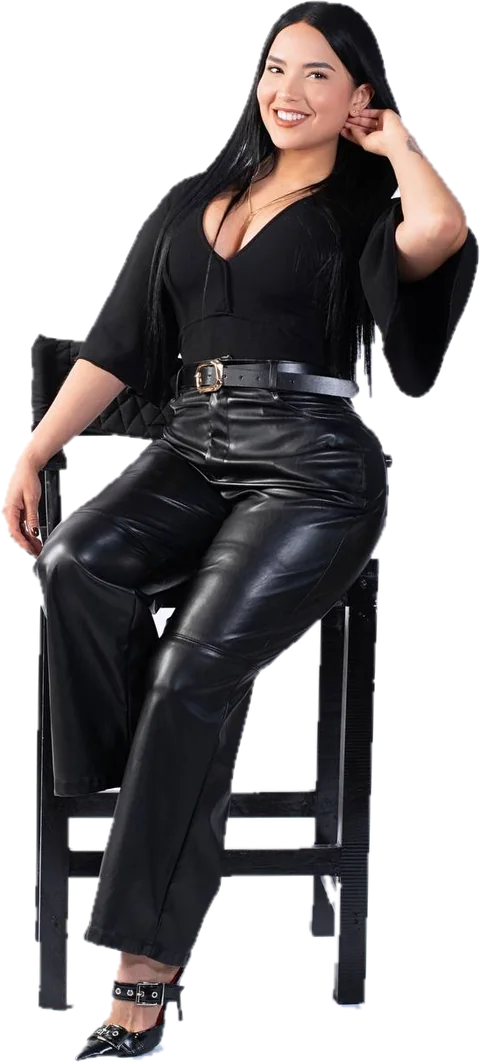
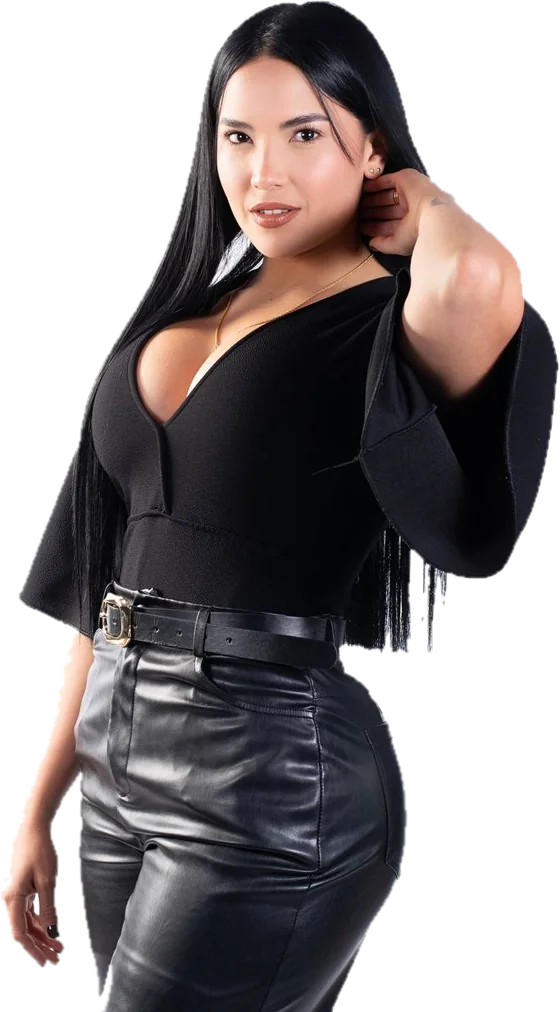
Pie: nueva foto sin fondo, título en una línea y menos espacio arriba

diff --git a/assets/styles.css b/assets/styles.css
@@ -481,14 +481,15 @@ ul, ol { list-style: none; margin: 0; padding: 0; }
     radial-gradient(ellipse at 80% 20%, rgba(105, 11, 35, .7), transparent 60%),
     var(--vino);
   color: var(--crema);
-  padding: clamp(64px, 8vw, 110px) 0 0;
+  padding: clamp(28px, 3vw, 40px) 0 0;
   overflow: hidden;
 }
 .contact__grid {
   display: grid;
   grid-template-columns: minmax(280px, 1fr) 1.15fr 1px .95fr;
-  grid-template-areas: "photo info line quote";
-  gap: clamp(28px, 4vw, 60px);
+  grid-template-areas: "photo title title title" "photo info line quote";
+  grid-template-rows: auto 1fr;
+  gap: 0 clamp(28px, 4vw, 60px);
   align-items: center;
 }
 .contact__grid::before { content: ""; grid-area: line; align-self: center; width: 1px; height: 70%; background: rgba(202, 161, 131, .4); }
@@ -530,15 +531,18 @@ ul, ol { list-style: none; margin: 0; padding: 0; }
 }
 .contact__info { grid-area: info; padding-bottom: clamp(40px, 5vw, 70px); }
 .contact__title {
+  grid-area: title;
+  align-self: end;
   font-family: var(--body);
-  font-size: clamp(16px, 1.6vw, 21px);
+  font-size: clamp(20px, 2.15vw, 30px);
   font-weight: 300;
-  letter-spacing: .2em;
+  letter-spacing: .22em;
   text-transform: uppercase;
-  line-height: 1.5;
+  line-height: 1.3;
   color: var(--crema);
-  margin-bottom: 30px;
+  margin: clamp(24px, 3vw, 44px) 0 clamp(26px, 3vw, 40px);
 }
+@media (min-width: 1100px) { .contact__title { white-space: nowrap; } }
 .contact__list { display: grid; gap: 14px; }
 .contact__list a { display: inline-flex; align-items: center; gap: 16px; color: var(--crema); text-decoration: none; font-size: 15px; letter-spacing: .03em; transition: color .2s; }
 .contact__list a:hover { color: var(--caramelo); }
@@ -641,12 +645,12 @@ ul, ol { list-style: none; margin: 0; padding: 0; }
 
 /* Contacto en tablet y celular */
 @media (max-width: 960px) {
-  .contact__grid { grid-template-columns: 1fr 1fr; grid-template-areas: "info quote" "photo photo"; }
+  .contact__grid { grid-template-columns: 1fr 1fr; grid-template-areas: "title title" "info quote" "photo photo"; grid-template-rows: auto; }
   .contact__grid::before { display: none; }
   .contact__photo { max-width: 360px; width: 100%; margin: 20px auto 0; height: 420px; }
 }
 @media (max-width: 640px) {
-  .contact__grid { grid-template-columns: 1fr; grid-template-areas: "info" "quote" "photo"; }
+  .contact__grid { grid-template-columns: 1fr; grid-template-areas: "title" "info" "quote" "photo"; }
   .contact__info, .contact__quote { padding-bottom: 0; }
   .contact__q--close { top: auto; bottom: 60px; }
 }

diff --git a/index.html b/index.html
@@ -255,11 +255,11 @@
 <footer class="contact" id="contacto">
   <div class="wrap contact__grid">
     <figure class="contact__photo reveal">
-      <img src="/media/fotos/contacto.webp" alt="Rogienny sentada en un taburete" width="480" height="1062" loading="lazy">
+      <img src="/media/fotos/contacto.webp" alt="Rogienny de pie, con la mano en el cuello" width="560" height="1012" loading="lazy">
       <figcaption aria-hidden="true">Hablemos</figcaption>
     </figure>
+    <h2 class="contact__title reveal">¿Creamos contenido para tu marca?</h2>
     <div class="contact__info reveal">
-      <h2 class="contact__title">¿Creamos contenido para tu marca?</h2>
       <ul class="contact__list">
         <li><a class="js-cotizar js-wa-text" href="#"><i><svg viewBox="0 0 24 24" aria-hidden="true" fill="none" stroke="currentColor" stroke-width="1.5" stroke-linecap="round" stroke-linejoin="round"><path d="M4 20l1.3-3.8A8 8 0 1 1 8 19z"/><path d="M9 9.5c0 3 2.5 5.5 5.5 5.5l1-1.5-2-1-1 .8c-1-.4-1.9-1.3-2.3-2.3l.8-1-1-2z"/></svg></i><span>+58 412-642-4915</span></a></li>
         <li class="js-email-li" hidden><a class="js-email" href="#"><i><svg viewBox="0 0 24 24" aria-hidden="true" fill="none" stroke="currentColor" stroke-width="1.5" stroke-linecap="round" stroke-linejoin="round"><rect x="3" y="5" width="18" height="14" rx="2"/><path d="M3 7l9 6 9-6"/></svg></i><span></span></a></li>
